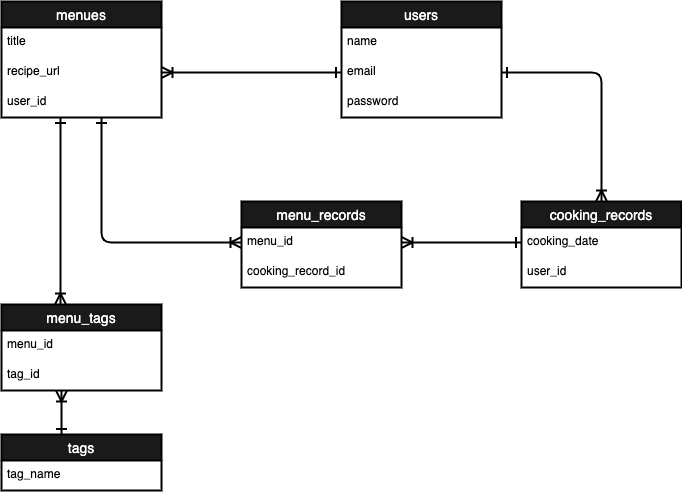
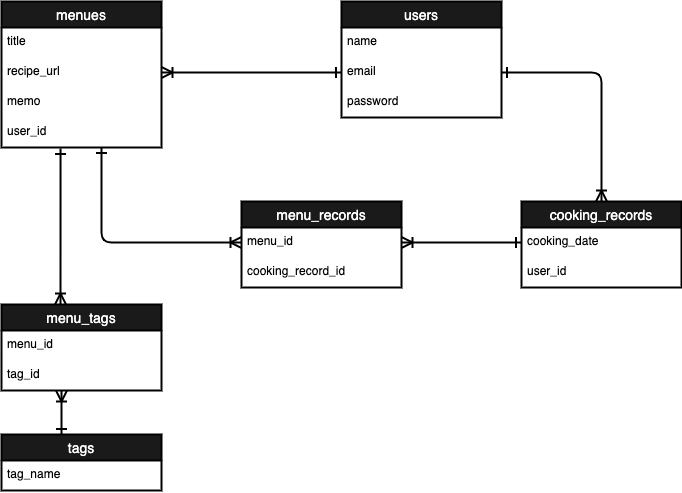
献立投稿機能実装（menuモデルにmemoカラム追加）

Changed region(s): [[0.0, 0.1826, 0.2463, 0.3043]]

diff --git a/db/schema.rb b/db/schema.rb
@@ -10,7 +10,7 @@
 #
 # It's strongly recommended that you check this file into your version control system.
 
-ActiveRecord::Schema.define(version: 2021_12_26_091316) do
+ActiveRecord::Schema.define(version: 2021_12_27_032629) do
 
   create_table "menus", options: "ENGINE=InnoDB DEFAULT CHARSET=utf8", force: :cascade do |t|
     t.string "title", null: false
@@ -18,6 +18,7 @@ ActiveRecord::Schema.define(version: 2021_12_26_091316) do
     t.bigint "user_id", null: false
     t.datetime "created_at", precision: 6, null: false
     t.datetime "updated_at", precision: 6, null: false
+    t.text "memo"
     t.index ["user_id"], name: "index_menus_on_user_id"
   end
 

diff --git a/app/controllers/menus_controller.rb b/app/controllers/menus_controller.rb
@@ -2,4 +2,23 @@ class MenusController < ApplicationController
   before_action :authenticate_user!
   def index
   end
+
+  def new
+    @menu = Menu.new
+  end
+
+  def create
+    @menu = Menu.new(menu_params)
+    if @menu.save
+      redirect_to root_path
+    else
+      render :new
+    end
+  end
+
+  private
+
+  def menu_params
+    params.require(:menu).permit(:title, :recipe_url, :memo).merge(user_id: current_user.id)
+  end
 end

diff --git a/db/migrate/20211227032629_add_memo_to_menu.rb b/db/migrate/20211227032629_add_memo_to_menu.rb
@@ -1,0 +1,5 @@
+class AddMemoToMenu < ActiveRecord::Migration[6.0]
+  def change
+    add_column :menus, :memo, :text
+  end
+end

diff --git a/app/models/menu.rb b/app/models/menu.rb
@@ -1,2 +1,5 @@
 class Menu < ApplicationRecord
+  validates :title, presence: true
+
+  belongs_to :user
 end
